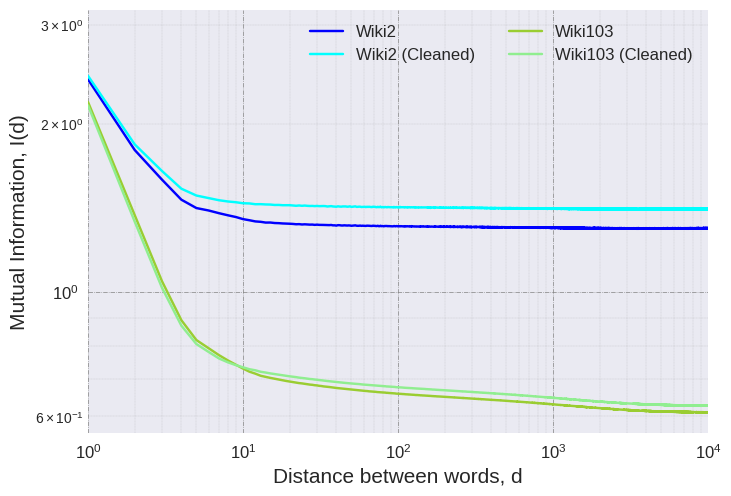
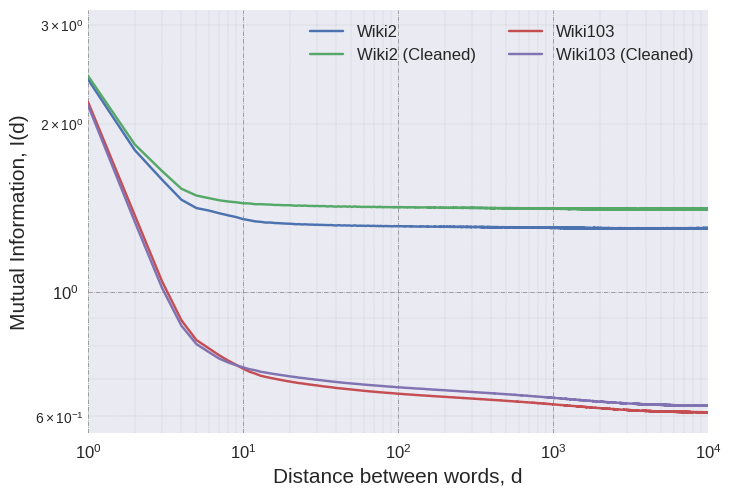
Up

diff --git a/paper_related/broken_power_law.py b/paper_related/broken_power_law.py
@@ -6,7 +6,7 @@ from astropy.modeling import models
 from scipy import stats
 
 # filenames = ["enwik8","text8","penn_tree","wiki2","wiki103"]
-filenames = ["penn_tree","text8","text8_wor","text8_subset","text8_subset_wor","wiki2","wiki2_raw","wiki2_cleaned","wiki19","wiki19_text8","wiki103","Wiki103_raw","wiki103_cleaned",
+filenames = ["penn_tree","text8","text8_wor","text8_subset","text8_subset_wor","wiki2","wiki2_raw","wiki2_cleaned","wiki19","wiki19_text8","wiki103","wiki103_raw","wiki103_cleaned",
              "wiki_sample_1","wiki_sample_2","wiki_ptb_size_1","wiki_ptb_size_2","wiki_ptb_vocab_1","wiki_ptb_vocab_2","10kGNAD"]
 
 all_mi = []
@@ -79,18 +79,19 @@ for filename in filenames:
 
 # ######################################################################################################################
 with plt.style.context(('seaborn')):
+    ax = plt.axes()
 
     ###################################################################################################################
     # PTB
     ###################################################################################################################
     # break_point = 4
     # dataset = 0
-    # data = all_mi[dataset]
+    # data = all_mi[dataset][0:730]
     # alpha_1 = 0.4786
     # alpha_2 = 0.01
     # p1 = plt.loglog(np.arange(1,len(data)+1), data, "r-", label="PTB")
     # amplitude = all_mi[dataset][break_point+8]
-    # x = np.linspace(1, len(data), len(data))
+    # x = np.linspace(0, len(data), len(data))
     # f = models.BrokenPowerLaw1D(amplitude=amplitude, x_break=break_point, alpha_1=alpha_1, alpha_2=alpha_2)
     # fit_sample = f(x)
     # p2 = plt.loglog(x, fit_sample, label="Broken Power-Law fit for PTB")
@@ -205,18 +206,18 @@ with plt.style.context(('seaborn')):
     ###################################################################################################################
     # break_point = 4
     # dataset = 6
-    # data = all_mi[dataset]
-    # alpha_1 = 0.421
-    # alpha_2 = 0.00281
+    # data = all_mi[dataset][20:]
+    # alpha_1 = 0.00225
+    # alpha_2 = 0.0
     # p1 = plt.loglog(np.arange(1,len(data)+1), data, label="WikiText2 Raw")
-    # amplitude = all_mi[dataset][break_point+16]
+    # amplitude = all_mi[dataset][break_point+10]
     # x = np.linspace(1, len(data), len(data))
     # f = models.BrokenPowerLaw1D(amplitude=amplitude, x_break=break_point, alpha_1=alpha_1, alpha_2=alpha_2)
     # fit_sample = f(x)
     # p2 = plt.loglog(x, fit_sample, label="Smoothly Broken Power-Law for WikiText2 Raw")
     # amplitude = all_mi[dataset][break_point-1]
     # f = models.SmoothlyBrokenPowerLaw1D(amplitude=amplitude, x_break=break_point, alpha_1=alpha_1, alpha_2=alpha_2)
-    # f.delta = 0.346
+    # f.delta = 0.2682
     # fit_sample = f(x)
     # p3 = plt.loglog(x, fit_sample, label="Smoothly Broken Power-Law for WikiText2 Raw")
 
@@ -245,9 +246,9 @@ with plt.style.context(('seaborn')):
     ###################################################################################################################
     # break_point = 4
     # dataset = 8
-    # data = all_mi[dataset]
-    # alpha_1 = 0.77
-    # alpha_2 = 0.021
+    # data = all_mi[dataset][16:]
+    # alpha_1 = 0.0078
+    # alpha_2 = 0.0000
     # p1 = plt.loglog(np.arange(1,len(data)+1), data, label="WikiText19")
     # amplitude = all_mi[dataset][break_point+6]
     # x = np.linspace(1, len(data), len(data))
@@ -256,7 +257,7 @@ with plt.style.context(('seaborn')):
     # p2 = plt.loglog(x, fit_sample, label="Broken Power-Law for WikiText19")
     # amplitude = all_mi[dataset][break_point-1]
     # f = models.SmoothlyBrokenPowerLaw1D(amplitude=amplitude, x_break=break_point, alpha_1=alpha_1, alpha_2=alpha_2)
-    # f.delta = 0.35
+    # f.delta = 0.43
     # fit_sample = f(x)
     # p3 = plt.loglog(x, fit_sample, label="Smoothly Broken Power-Law for WikiText19")
 
@@ -266,17 +267,17 @@ with plt.style.context(('seaborn')):
     # break_point = 4
     # dataset = 9
     # data = all_mi[dataset]
-    # alpha_1 = 0.77
-    # alpha_2 = 0.021
+    # alpha_1 = 0.012
+    # alpha_2 = 0.012
     # p1 = plt.loglog(np.arange(1,len(data)+1), data, label="WikiText19 Text8")
     # amplitude = all_mi[dataset][break_point+6]
     # x = np.linspace(1, len(data), len(data))
     # f = models.BrokenPowerLaw1D(amplitude=amplitude, x_break=break_point, alpha_1=alpha_1, alpha_2=alpha_2)
     # fit_sample = f(x)
-    # p2 = plt.loglog(x, fit_sample, label="Broken Power-Law for WikiText19 Text8")
+    # # p2 = plt.loglog(x, fit_sample, label="Broken Power-Law for WikiText19 Text8")
     # amplitude = all_mi[dataset][break_point-1]
     # f = models.SmoothlyBrokenPowerLaw1D(amplitude=amplitude, x_break=break_point, alpha_1=alpha_1, alpha_2=alpha_2)
-    # f.delta = 0.35
+    # f.delta = 0.21
     # fit_sample = f(x)
     # p3 = plt.loglog(x, fit_sample, label="Smoothly Broken Power-Law for WikiText19 Text8")
 
@@ -303,11 +304,11 @@ with plt.style.context(('seaborn')):
     ###################################################################################################################
     # Wiki103 Raw
     ###################################################################################################################
-    # break_point = 4
+    # break_point = 5
     # dataset = 11
     # data = all_mi[dataset]
-    # alpha_1 = 0.77
-    # alpha_2 = 0.021
+    # alpha_1 = 0.019
+    # alpha_2 = 0.019
     # p1 = plt.loglog(np.arange(1,len(data)+1), data, label="WikiText103 Raw")
     # amplitude = all_mi[dataset][break_point+6]
     # x = np.linspace(1, len(data), len(data))
@@ -316,7 +317,7 @@ with plt.style.context(('seaborn')):
     # p2 = plt.loglog(x, fit_sample, label="Broken Power-Law for WikiText103 Raw")
     # amplitude = all_mi[dataset][break_point-1]
     # f = models.SmoothlyBrokenPowerLaw1D(amplitude=amplitude, x_break=break_point, alpha_1=alpha_1, alpha_2=alpha_2)
-    # f.delta = 0.35
+    # f.delta = 0.32
     # fit_sample = f(x)
     # p3 = plt.loglog(x, fit_sample, label="Smoothly Broken Power-Law for WikiText103 Raw")
 
@@ -345,9 +346,9 @@ with plt.style.context(('seaborn')):
     ###################################################################################################################
     # break_point = 4
     # dataset = 13
-    # data = all_mi[dataset]
-    # alpha_1 = 0.421
-    # alpha_2 = 0.00281
+    # data = all_mi[dataset][22:2000]
+    # alpha_1 = 0.0023
+    # alpha_2 = 0.0023
     # p1 = plt.loglog(np.arange(1,len(data)+1), data, label="WikiText2 PTB")
     # amplitude = all_mi[dataset][break_point+16]
     # x = np.linspace(1, len(data), len(data))
@@ -356,29 +357,29 @@ with plt.style.context(('seaborn')):
     # p2 = plt.loglog(x, fit_sample, label="Smoothly Broken Power-Law for WikiText2 PTB")
     # amplitude = all_mi[dataset][break_point-1]
     # f = models.SmoothlyBrokenPowerLaw1D(amplitude=amplitude, x_break=break_point, alpha_1=alpha_1, alpha_2=alpha_2)
-    # f.delta = 0.346
+    # f.delta = 0.336
     # fit_sample = f(x)
     # p3 = plt.loglog(x, fit_sample, label="Smoothly Broken Power-Law for WikiText2 PTB")
 
     ###################################################################################################################
     # Wiki Sample #2
     ###################################################################################################################
-    # break_point = 4
-    # dataset = 14
-    # data = all_mi[dataset]
-    # alpha_1 = 0.421
-    # alpha_2 = 0.00281
-    # p1 = plt.loglog(np.arange(1,len(data)+1), data, label="WikiText2 PTB")
-    # amplitude = all_mi[dataset][break_point+16]
-    # x = np.linspace(1, len(data), len(data))
-    # f = models.BrokenPowerLaw1D(amplitude=amplitude, x_break=break_point, alpha_1=alpha_1, alpha_2=alpha_2)
-    # fit_sample = f(x)
+    break_point = 2000
+    dataset = 14
+    data = all_mi[dataset]
+    alpha_1 = 0.002305
+    alpha_2 = 0.002305
+    p1 = plt.loglog(np.arange(1,len(data)+1), data, label="WikiText2 PTB")
+    amplitude = all_mi[dataset][break_point+16]
+    x = np.linspace(1, len(data), len(data))
+    f = models.BrokenPowerLaw1D(amplitude=amplitude, x_break=break_point, alpha_1=alpha_1, alpha_2=alpha_2)
+    fit_sample = f(x)
     # p2 = plt.loglog(x, fit_sample, label="Smoothly Broken Power-Law for WikiText2 PTB")
-    # amplitude = all_mi[dataset][break_point-1]
-    # f = models.SmoothlyBrokenPowerLaw1D(amplitude=amplitude, x_break=break_point, alpha_1=alpha_1, alpha_2=alpha_2)
-    # f.delta = 0.346
-    # fit_sample = f(x)
-    # p3 = plt.loglog(x, fit_sample, label="Smoothly Broken Power-Law for WikiText2 PTB")
+    amplitude = all_mi[dataset][break_point-1]
+    f = models.SmoothlyBrokenPowerLaw1D(amplitude=amplitude, x_break=break_point, alpha_1=alpha_1, alpha_2=alpha_2)
+    f.delta = 0.333
+    fit_sample = f(x)
+    p3 = plt.loglog(x, fit_sample, label="Smoothly Broken Power-Law for WikiText2 PTB")
 
     ###################################################################################################################
     # Wiki PTB Size #1
@@ -543,15 +544,14 @@ with plt.style.context(('seaborn')):
     print("length :", len(data))
 
     ##########################################################################################################################
-    ax = plt.axes()
-    lgd = ax.legend(loc='upper right', shadow=True, fancybox=True, prop={'size': 6})
-    plt.tick_params(labelsize='large', width=3)
+    plt.tick_params(labelsize='large', width=5)
     plt.grid(True)
     plt.grid(which='major', linestyle='-.', linewidth='0.5', color='grey')
     plt.grid(which='minor', linestyle=':', linewidth='0.2', color='grey')
     ax.set_xlim(1.0, 10000.0)
-    ax.set_ylim(0.5665692652625367, 3.5)
+    # ax.set_ylim(0.5665692652625367, 3.5)
     ax.set_xlabel('Distance between words, d', fontsize=15)
     ax.set_ylabel('Mutual Information, I(d)', fontsize=15)
+    lgd = ax.legend(loc='upper right', shadow=True, fancybox=True, prop={'size': 15})
     # plt.savefig('fit', bbox_extra_artists=(lgd,), bbox_inches='tight')
     plt.show()

diff --git a/paper_related/plot_words.py b/paper_related/plot_words.py
@@ -5,8 +5,8 @@ import matplotlib.pyplot as plt
 import numpy as np
 
 filenames = ["penn_tree","text8","text8_wor","text8_subset","text8_subset_wor","wiki2","wiki2_raw","wiki2_cleaned", \
-            "wiki19","wiki19_Text8","wiki103","wiki103_raw","wiki103_cleaned","wiki_sample_1","wiki_sample_2", \
-            "wiki_PTB_size_1","wiki_PTB_size_2","wiki_PTB_vocab_1","wiki_PTB_vocab_2","10kGNAD"]
+            "wiki19","wiki19_text8","wiki103","wiki103_raw","wiki103_cleaned","wiki_sample_1","wiki_sample_2", \
+            "wiki_ptb_size_1","wiki_ptb_size_2","wiki_ptb_vocab_1","wiki_ptb_vocab_2","10kGNAD"]
 
 all_mi = []
 all_hx = []
@@ -51,45 +51,45 @@ for filename in filenames:
     all_hxy.append(Hxy.tolist())
 
 with plt.style.context(('seaborn')):
+    ax = plt.axes()
 
-    plt.loglog(np.arange(1,len(all_mi[0])+1), all_mi[0], color='red', linestyle='solid', label="PTB")
+    # plt.loglog(np.arange(1,len(all_mi[6])+1), all_mi[6], label="Wiki2 (Raw)")
+    # plt.loglog(np.arange(1,len(all_mi[5])+1), all_mi[5], label="Wiki2")
+    # plt.loglog(np.arange(1,len(all_mi[7])+1), all_mi[7], label="Wiki2 (Cleaned)")
 
-    plt.loglog(np.arange(1,len(all_mi[1])+1), all_mi[1], color='fuchsia', linestyle='solid', label="Text8")
-    # plt.loglog(np.arange(1,len(all_mi[2])+1), all_mi[2], color='indigo', linestyle='solid', label="Text8 (w/ Rare)")
-    # plt.loglog(np.arange(1,len(all_mi[3])+1), all_mi[3], color='pink', linestyle='solid', label="Text8 (Subset)")
-    # plt.loglog(np.arange(1,len(all_mi[4])+1), all_mi[4], color='purple', linestyle='solid', label="Text8 (w/ Rare Subset)")
+    # plt.loglog(np.arange(1,len(all_mi[8])+1), all_mi[8], label="Wiki19")
 
-    plt.loglog(np.arange(1,len(all_mi[5])+1), all_mi[5], color='blue', linestyle='solid', label="Wiki2")
-    # plt.loglog(np.arange(1,len(all_mi[6])+1), all_mi[6], color='darkblue', linestyle='solid', label="Wiki2 (Raw)")
-    # plt.loglog(np.arange(1,len(all_mi[7])+1), all_mi[7], color='cyan', linestyle='solid', label="Wiki2 (Cleaned)")
+    # plt.loglog(np.arange(1,len(all_mi[11])+1), all_mi[11], label="Wiki103 (Raw)")
+    # plt.loglog(np.arange(1,len(all_mi[10])+1), all_mi[10], label="Wiki103")
+    # plt.loglog(np.arange(1,len(all_mi[12])+1), all_mi[12], label="Wiki103 (Cleaned)")
 
-    # plt.loglog(np.arange(1,len(all_mi[8])+1), all_mi[8], color='brown', linestyle='solid', label="Wiki19")
-    # plt.loglog(np.arange(1,len(all_mi[9])+1), all_mi[9], color='khaki', linestyle='solid', label="Wiki19 (Text8)")
+    # plt.loglog(np.arange(1,len(all_mi[13])+1), all_mi[13], label="Wiki Sample 1")
+    # plt.loglog(np.arange(1,len(all_mi[14])+1), all_mi[14], label="Wiki Sample 2")
+    plt.loglog(np.arange(1,len(all_mi[15])+1), all_mi[15], label="Wiki PTB like Size 1")
+    plt.loglog(np.arange(1,len(all_mi[16])+1), all_mi[16], label="Wiki PTB like Size 2")
+    plt.loglog(np.arange(1,len(all_mi[17])+1), all_mi[17], label="Wiki PTB like Vocabulary 1")
+    plt.loglog(np.arange(1,len(all_mi[18])+1), all_mi[18], label="Wiki PTB like Vocabulary 2")
 
-    plt.loglog(np.arange(1,len(all_mi[10])+1), all_mi[10], color='yellowgreen', linestyle='solid', label="Wiki103")
-    # plt.loglog(np.arange(1,len(all_mi[11])+1), all_mi[11], color='darkgreen', linestyle='solid', label="Wiki103 (Raw)")
-    # plt.loglog(np.arange(1,len(all_mi[12])+1), all_mi[12], color='lightgreen', linestyle='solid', label="Wiki103 (Cleaned)")
+    plt.loglog(np.arange(1,len(all_mi[0])+1), all_mi[0], label="PTB")
 
-    # plt.loglog(np.arange(1,len(all_mi[13])+1), all_mi[13], color='coral', linestyle='solid', label="Wiki Sample 1")
-    # plt.loglog(np.arange(1,len(all_mi[14])+1), all_mi[14], color='orange', linestyle='solid', label="Wiki Sample 2")
-    # plt.loglog(np.arange(1,len(all_mi[15])+1), all_mi[15], color='green', linestyle='solid', label="Wiki PTB Size 1")
-    # plt.loglog(np.arange(1,len(all_mi[16])+1), all_mi[16], color='lime', linestyle='solid', label="Wiki PTB Size 2")
-    # plt.loglog(np.arange(1,len(all_mi[17])+1), all_mi[17], color='black', linestyle='solid', label="Wiki PTB Vocabulary 1")
-    # plt.loglog(np.arange(1,len(all_mi[18])+1), all_mi[18], color='grey', linestyle='solid', label="Wiki PTB Vocabulary 2")
+    # plt.loglog(np.arange(1,len(all_mi[1])+1), all_mi[1], label="Text8")
+    # plt.loglog(np.arange(1,len(all_mi[2])+1), all_mi[2], label="Text8 (w/ Rare)")
+    # plt.loglog(np.arange(1,len(all_mi[3])+1), all_mi[3], label="Text8 (Small)")
+    # plt.loglog(np.arange(1,len(all_mi[4])+1), all_mi[4], label="Text8 (w/ Rare Small)")
+    # plt.loglog(np.arange(1,len(all_mi[9])+1), all_mi[9], label="Wiki19 (Text8)")
 
-    plt.loglog(np.arange(1,len(all_mi[19])+1), all_mi[19], color='yellow', linestyle='solid', label="German Text")
+    # plt.loglog(np.arange(1,len(all_mi[19])+1), all_mi[19], label="German Text")
 
     plt.tick_params(labelsize='large', width=5)
     plt.grid(True)
     plt.grid(which='major', linestyle='-.', linewidth='0.5', color='grey')
     plt.grid(which='minor', linestyle=':', linewidth='0.2', color='grey')
-    ax = plt.axes()
     ax.set_xlim(1, len(all_mi[0]))
     ax.set_ylim(0.56, 3.2)
     print(ax.get_xlim())
     print(ax.get_ylim())
     ax.set_xlabel('Distance between words, d', fontsize=15)
     ax.set_ylabel('Mutual Information, I(d)', fontsize=15)
-    lgd = ax.legend(loc='upper right', shadow=True, fancybox=True, ncol=2, numpoints=1, prop={'size': 12})
-    plt.savefig('lm_words', bbox_extra_artists=(lgd,), bbox_inches='tight')
+    lgd = ax.legend(loc='upper right', shadow=True, fancybox=True, ncol=3, numpoints=1, prop={'size': 12})
+    plt.savefig('lm_words_wiki2_ptb', bbox_extra_artists=(lgd,), bbox_inches='tight')
     plt.show()

diff --git a/paper_related/grid_search.py b/paper_related/grid_search.py
@@ -1,0 +1,67 @@
+#!/usr/bin/env python
+
+import numpy as np
+from astropy.modeling import models
+from scipy import stats
+import sys
+
+filenames = ["penn_tree","text8","text8_wor","text8_subset","text8_subset_wor","wiki2","wiki2_raw","wiki2_cleaned","wiki19","wiki19_text8","wiki103","wiki103_raw","wiki103_cleaned",
+             "wiki_sample_1","wiki_sample_2","wiki_ptb_size_1","wiki_ptb_size_2","wiki_ptb_vocab_1","wiki_ptb_vocab_2","10kGNAD"]
+
+filename = filenames[14]
+f = open(filename+"_words_10000_grassberger_logx_mi.dat", "r")
+lines = f.readlines()
+f.close()
+
+start = 0
+end = 0
+index = 0
+
+mi = np.zeros([0,1])
+Hx = np.zeros([0,1])
+Hy = np.zeros([0,1])
+Hxy = np.zeros([0,1])
+temp = lines[0].split()
+if temp[0] == "data:":
+    for line in lines:
+        temp = line.strip().split(":")
+        if temp[0] == "d":
+            temp1 = temp[2].split(",")
+            mi = np.append(mi,np.zeros(1))
+            mi[int(temp[1])-1] = float(temp1[0])
+            Hx = np.append(Hx,np.zeros(1))
+            Hx[int(temp[1])-1] = float(temp1[1])
+            Hy = np.append(Hy,np.zeros(1))
+            Hy[int(temp[1])-1] = float(temp1[2])
+            Hxy = np.append(Hxy,np.zeros(1))
+            Hxy[int(temp[1])-1] = float(temp1[3])
+            d = int(temp[1])+1
+        index+=1
+else:
+    print("Not a valid file")
+
+
+alpha_1_min = 0.37
+alpha_1_max = 0.39
+
+alpha_2_min = 0.00229
+alpha_2_max = 0.00231
+
+delta_min = 0.33
+delta_max = 0.35
+
+data = mi[0:1000]
+x = np.linspace(1, len(data), len(data))
+break_point = 4
+amplitude = mi[break_point-1]
+
+for delta in np.linspace(delta_min,delta_max,21):
+    for alpha_1 in np.linspace(alpha_1_min,alpha_1_max,21):
+        for alpha_2 in np.linspace(alpha_2_min,alpha_2_max,21):
+            f = models.SmoothlyBrokenPowerLaw1D(amplitude=amplitude, x_break=break_point, alpha_1=alpha_1, alpha_2=alpha_2)
+            f.delta = delta
+            fit_sample = f(x)
+            [D, p_value] = stats.ks_2samp(data, fit_sample)
+
+            if p_value > 1e-6:
+                print("\rdelta: %f, alpha1: %f, alpha2: %f, P Value: %f" % (delta,alpha_1,alpha_2,p_value))
